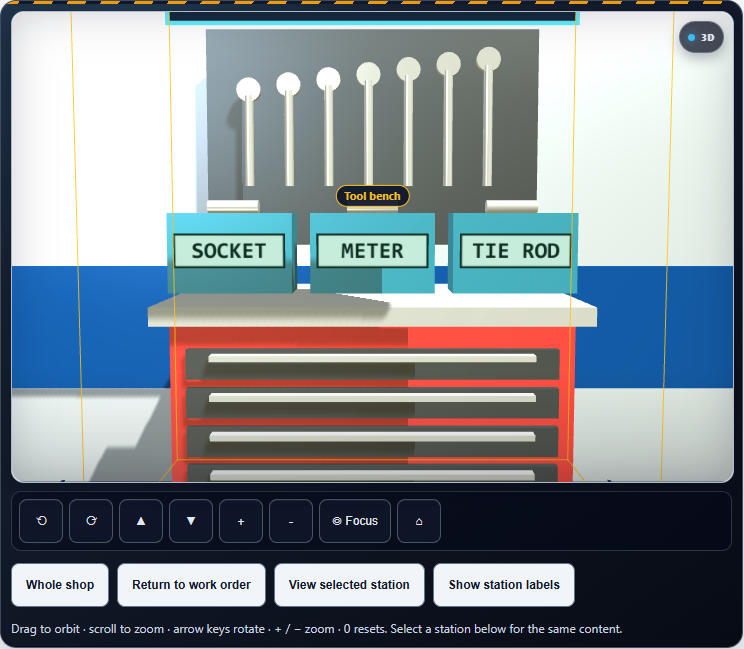
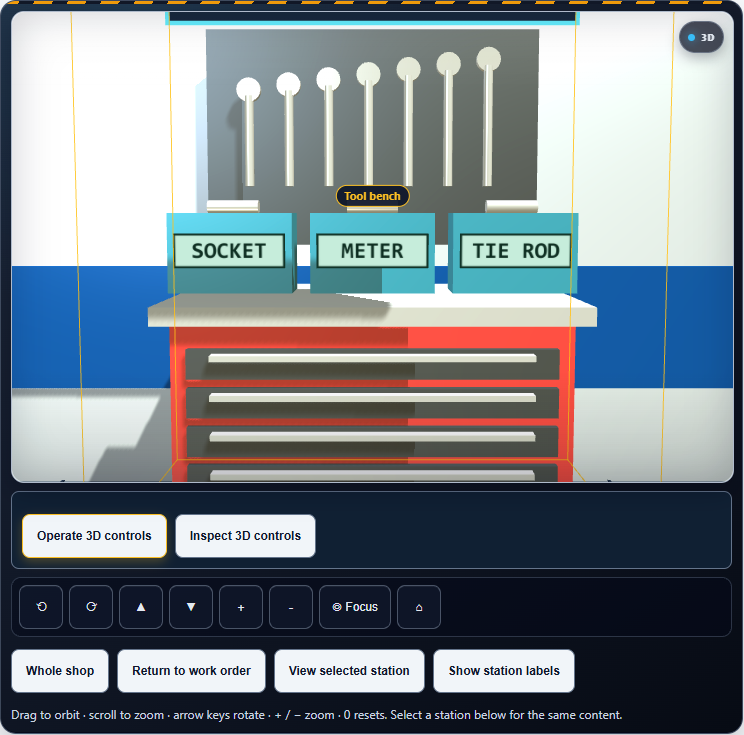
Add optional 3D workshop control inspection mode

diff --git a/desktop/web-app/public/stem_lab/stem_tool_autorepair.js b/desktop/web-app/public/stem_lab/stem_tool_autorepair.js
@@ -9760,6 +9760,42 @@ if (!(window.StemLab.isRegistered && window.StemLab.isRegistered('autoRepair')))
     }
     return actions;
   }
+  function arShopControlCatalog(raw) {
+    var state = arShopState(raw), task = arShopJob(state.job).tasks[state.step];
+    var list = SHOP_STATIONS.map(function (station) { return { id: station.id, label: 'Explore ' + station.label, detail: station.detail }; });
+    arShop3DTools(state).forEach(function (tool) {
+      list.push({ id: arShop3DToken(state, 'equip-' + tool[0]), label: 'Pick up ' + tool[1], detail: 'Select this item from the tool bench. Return to the task station to use it.' });
+    });
+    arShop3DActions(state).forEach(function (action) {
+      var detail = 'Use this control with the equipment and access required by the current task.';
+      if (action.id === 'task') detail = 'Perform the current work-order step: ' + task.label + '. Required setup, equipment, calculations and evidence still apply.';
+      else if (action.id === 'read') detail = 'Capture the instrument output using its current setup. Check whether the captured evidence is valid before completing the task.';
+      else if (action.id === 'hood') detail = 'Change hood access. Opening or closing the hood clears the current instrument capture.';
+      else if (action.id === 'lift-stop') detail = 'Latch the lift stop at its current position. A click on the red 3D stop always acts immediately, including in Inspect mode.';
+      else if (action.id === 'lift-clear') detail = 'Record or reopen the simulated bay-clear check. The lift remains stopped.';
+      else if (action.id === 'lift-reset') detail = 'Reset the latched stop after the bay-clear check. Resetting does not move the vehicle or resume a command.';
+      else if (action.explore) detail = action.explore.type === 'part' ? SHOP_BRAKE_PARTS.filter(function (part) { return part.id === action.explore.id; })[0].detail : 'Change the spacing of the brake parts for inspection. This view does not perform brake service.';
+      else if (action.action && action.action.type === 'configure') detail = 'Change an instrument setting. Capture fresh evidence after a setup change.';
+      else if (action.action && action.action.type === 'quantity') detail = 'Change the measured quantity in the jug. Transferring oil into the engine is a separate work-order step.';
+      else if (action.action && action.action.type === 'alignment-adjust') detail = 'Adjust the selected front toe angle by the displayed increment. Capture a new measurement after adjusting.';
+      else if (action.action && action.action.type === 'alignment-check') detail = 'Record or reopen this alignment preparation check.';
+      else if (action.id === 'seat') detail = 'Seat the wheel and start its fasteners before checking the cross-hub sequence.';
+      list.push({ id: arShop3DToken(state, action.id), label: action.label, detail: detail });
+    });
+    if (arShopInstrumentKind(state) === 'torque' && state.wheelSeated) for (var i = 0; i < 5; i++) list.push({ id: 'shop-lug-' + i, label: 'Check fastener ' + (i + 1), detail: 'Check this fastener against the training cross-hub sequence. A repeated or out-of-order check will not advance reassembly.' });
+    if (state.job === 'alignment') ['left', 'right'].forEach(function (side) { list.push({ id: 'shop-toe-' + side, label: 'Select ' + side + ' front tie rod', detail: 'Choose which front toe angle to adjust. Selecting a side does not change its angle.' }); });
+    return list;
+  }
+  function arShopControlPreview(raw, id) {
+    var state = arShopState(raw), item = arShopControlCatalog(state).filter(function (control) { return control.id === id; })[0];
+    return item ? { id: item.id, key: JSON.stringify(state) } : null;
+  }
+  function arShopCurrentPreview(raw, preview) {
+    var state = arShopState(raw);
+    if (!preview || preview.key !== JSON.stringify(state)) return null;
+    return arShopControlCatalog(state).filter(function (control) { return control.id === preview.id; })[0] || null;
+  }
+
   function arShop3DPick(raw, token) {
     var state = arShopState(raw), prefix = arShop3DToken(state, '');
     function blocked(text) { return Object.assign({}, state, { feedback: text }); }
@@ -20112,6 +20148,43 @@ if (!(window.StemLab.isRegistered && window.StemLab.isRegistered('autoRepair')))
           change({ station: id, feedback: '' });
           arAnnounce(SHOP_STATIONS.filter(function (p) { return p.id === id; })[0].label + ' selected.');
         }
+        function inspectControl(id) {
+          var preview = arShopControlPreview(shop, id), info = arShopCurrentPreview(shop, preview);
+          upd('shopInspectPick', preview);
+          arAnnounce(info ? 'Inspecting: ' + info.label + '. ' + info.detail : 'That control is no longer available. Choose a current control.');
+        }
+        function scenePick(id) {
+          if (d.shopInteraction === 'inspect' && id !== arShop3DToken(shop, 'lift-stop')) inspectControl(id);
+          else pick(id);
+        }
+        function clearControlPreview() {
+          upd('shopInspectPick', null);
+          requestAnimationFrame(function () { var chooser = document.getElementById('ar-shop-inspect-target'); if (chooser) chooser.focus({ preventScroll: true }); });
+        }
+        function controlInspector() {
+          var inspecting = d.shopInteraction === 'inspect', info = arShopCurrentPreview(shop, d.shopInspectPick);
+          return h('section', { 'data-ar-control-inspector': inspecting ? 'inspect' : 'operate', 'aria-label': '3D click mode',
+            style: { margin: '8px 0', padding: 10, border: '1px solid #64748b', borderRadius: 8, background: '#102033', color: '#e2e8f0' } },
+            h('div', { className: 'ar-shop-actions', role: 'group', 'aria-label': '3D click mode' }, ['operate', 'inspect'].map(function (mode) {
+              return control(mode === 'operate' ? 'Operate 3D controls' : 'Inspect 3D controls', function () { updMulti({ shopInteraction: mode, shopInspectPick: null }); },
+                { key: mode, 'data-ar-shop-interaction': mode, 'aria-pressed': (inspecting ? 'inspect' : 'operate') === mode });
+            })),
+            inspecting && h('div', null,
+              h('p', { style: { fontSize: 12, lineHeight: 1.5 } }, 'Click a 3D control to inspect it, then use the selected control below. The red 3D emergency stop stays immediate. Labeled controls in the work panels operate directly.'),
+              h('label', { htmlFor: 'ar-shop-inspect-target', style: { display: 'block', fontSize: 12, marginBottom: 6 } }, 'Or choose a control to inspect'),
+              h('select', { id: 'ar-shop-inspect-target', value: info ? info.id : '', onChange: function (event) { inspectControl(event.target.value); },
+                style: { minHeight: 44, width: '100%', boxSizing: 'border-box', background: '#fff', color: '#102033', padding: 8 } },
+                h('option', { value: '' }, 'Choose a current control'), arShopControlCatalog(shop).map(function (item) { return h('option', { key: item.id, value: item.id }, item.label); })),
+              h('div', { 'data-ar-control-preview': info ? info.id : '', role: 'status', 'aria-atomic': 'true', style: { fontSize: 13, lineHeight: 1.5, marginTop: 8 } },
+                info ? h('div', null, h('strong', null, info.label), h('p', { style: { margin: '6px 0' } }, info.detail)) :
+                  d.shopInspectPick ? 'The workshop changed. Inspect a current control again.' : 'Select a control to read what it does.'),
+              info && control('Use selected control', function () {
+                var current = arShopCurrentPreview(shop, d.shopInspectPick);
+                if (current) pick(current.id);
+                clearControlPreview();
+              }, { 'data-ar-control-use': true }),
+              info && control('Dismiss preview', clearControlPreview, { 'data-ar-control-dismiss': true })));
+        }
         function stationCamera(id) {
           if (!SHOP3D.focus) return;
           var viewport = document.querySelector('[data-ar-workshop] .ar-bay-viewport');
@@ -20135,7 +20208,7 @@ if (!(window.StemLab.isRegistered && window.StemLab.isRegistered('autoRepair')))
         var sceneState = [shop.job, shop.step, shop.tool, shop.brakeSpread, shop.brakePart, shop.lift, shop.liftStopped, shop.liftBayClear, shop.hood, shop.wheelRemoved, shop.serviced, shop.oilDrained, shop.refilled, shop.wheelSeated, instrumentKind === 'torque' ? shop.lugs.join(',') : '', instrumentKind === 'torque', equipmentState, shop.job === 'alignment' ? JSON.stringify([shop.alignment, !!shop.alignmentCutaway]) : ''].join('-');
         SHOP3D.sync({ selected: shop.station, dark: isDark, contrast: isContrast,
           sceneKey: 'whole-workshop-' + sceneState, sceneProps: shop, showAllLabels: !!d.shopLabels,
-          onPick: pick, onStatus: function (next) { upd('uh3dStatus', next); } });
+          onPick: scenePick, onStatus: function (next) { upd('uh3dStatus', next); } });
         function control(label, fn, attrs) {
           return h('button', Object.assign({ type: 'button', 'data-ar-focusable': true, onClick: fn,
             style: btnSecondary({ minHeight: 44, fontSize: 12 }) }, attrs || {}), label);
@@ -20417,6 +20490,7 @@ if (!(window.StemLab.isRegistered && window.StemLab.isRegistered('autoRepair')))
               h('div', { className: 'ar-bay-viewer-frame ar-shop-viewport' },
                 bayViewport({ viewer: SHOP3D, height: 470, selected: shop.station, selectedLabel: station.label,
                   label: 'Full vehicle in a mechanic workshop', failText: '3D view unavailable. Use the station buttons and work order below; all tasks and findings remain available.', loadText: 'Loading the full mechanic workshop…' }),
+                controlInspector(),
                 bayControls({ viewer: SHOP3D, selected: shop.station, selectedLabel: station.label }),
                 h('div', { className: 'ar-shop-actions' },
                   control('Whole shop', function () { SHOP3D.reset(); }),

diff --git a/stem_lab/stem_tool_autorepair.js b/stem_lab/stem_tool_autorepair.js
@@ -9760,6 +9760,42 @@ if (!(window.StemLab.isRegistered && window.StemLab.isRegistered('autoRepair')))
     }
     return actions;
   }
+  function arShopControlCatalog(raw) {
+    var state = arShopState(raw), task = arShopJob(state.job).tasks[state.step];
+    var list = SHOP_STATIONS.map(function (station) { return { id: station.id, label: 'Explore ' + station.label, detail: station.detail }; });
+    arShop3DTools(state).forEach(function (tool) {
+      list.push({ id: arShop3DToken(state, 'equip-' + tool[0]), label: 'Pick up ' + tool[1], detail: 'Select this item from the tool bench. Return to the task station to use it.' });
+    });
+    arShop3DActions(state).forEach(function (action) {
+      var detail = 'Use this control with the equipment and access required by the current task.';
+      if (action.id === 'task') detail = 'Perform the current work-order step: ' + task.label + '. Required setup, equipment, calculations and evidence still apply.';
+      else if (action.id === 'read') detail = 'Capture the instrument output using its current setup. Check whether the captured evidence is valid before completing the task.';
+      else if (action.id === 'hood') detail = 'Change hood access. Opening or closing the hood clears the current instrument capture.';
+      else if (action.id === 'lift-stop') detail = 'Latch the lift stop at its current position. A click on the red 3D stop always acts immediately, including in Inspect mode.';
+      else if (action.id === 'lift-clear') detail = 'Record or reopen the simulated bay-clear check. The lift remains stopped.';
+      else if (action.id === 'lift-reset') detail = 'Reset the latched stop after the bay-clear check. Resetting does not move the vehicle or resume a command.';
+      else if (action.explore) detail = action.explore.type === 'part' ? SHOP_BRAKE_PARTS.filter(function (part) { return part.id === action.explore.id; })[0].detail : 'Change the spacing of the brake parts for inspection. This view does not perform brake service.';
+      else if (action.action && action.action.type === 'configure') detail = 'Change an instrument setting. Capture fresh evidence after a setup change.';
+      else if (action.action && action.action.type === 'quantity') detail = 'Change the measured quantity in the jug. Transferring oil into the engine is a separate work-order step.';
+      else if (action.action && action.action.type === 'alignment-adjust') detail = 'Adjust the selected front toe angle by the displayed increment. Capture a new measurement after adjusting.';
+      else if (action.action && action.action.type === 'alignment-check') detail = 'Record or reopen this alignment preparation check.';
+      else if (action.id === 'seat') detail = 'Seat the wheel and start its fasteners before checking the cross-hub sequence.';
+      list.push({ id: arShop3DToken(state, action.id), label: action.label, detail: detail });
+    });
+    if (arShopInstrumentKind(state) === 'torque' && state.wheelSeated) for (var i = 0; i < 5; i++) list.push({ id: 'shop-lug-' + i, label: 'Check fastener ' + (i + 1), detail: 'Check this fastener against the training cross-hub sequence. A repeated or out-of-order check will not advance reassembly.' });
+    if (state.job === 'alignment') ['left', 'right'].forEach(function (side) { list.push({ id: 'shop-toe-' + side, label: 'Select ' + side + ' front tie rod', detail: 'Choose which front toe angle to adjust. Selecting a side does not change its angle.' }); });
+    return list;
+  }
+  function arShopControlPreview(raw, id) {
+    var state = arShopState(raw), item = arShopControlCatalog(state).filter(function (control) { return control.id === id; })[0];
+    return item ? { id: item.id, key: JSON.stringify(state) } : null;
+  }
+  function arShopCurrentPreview(raw, preview) {
+    var state = arShopState(raw);
+    if (!preview || preview.key !== JSON.stringify(state)) return null;
+    return arShopControlCatalog(state).filter(function (control) { return control.id === preview.id; })[0] || null;
+  }
+
   function arShop3DPick(raw, token) {
     var state = arShopState(raw), prefix = arShop3DToken(state, '');
     function blocked(text) { return Object.assign({}, state, { feedback: text }); }
@@ -20112,6 +20148,43 @@ if (!(window.StemLab.isRegistered && window.StemLab.isRegistered('autoRepair')))
           change({ station: id, feedback: '' });
           arAnnounce(SHOP_STATIONS.filter(function (p) { return p.id === id; })[0].label + ' selected.');
         }
+        function inspectControl(id) {
+          var preview = arShopControlPreview(shop, id), info = arShopCurrentPreview(shop, preview);
+          upd('shopInspectPick', preview);
+          arAnnounce(info ? 'Inspecting: ' + info.label + '. ' + info.detail : 'That control is no longer available. Choose a current control.');
+        }
+        function scenePick(id) {
+          if (d.shopInteraction === 'inspect' && id !== arShop3DToken(shop, 'lift-stop')) inspectControl(id);
+          else pick(id);
+        }
+        function clearControlPreview() {
+          upd('shopInspectPick', null);
+          requestAnimationFrame(function () { var chooser = document.getElementById('ar-shop-inspect-target'); if (chooser) chooser.focus({ preventScroll: true }); });
+        }
+        function controlInspector() {
+          var inspecting = d.shopInteraction === 'inspect', info = arShopCurrentPreview(shop, d.shopInspectPick);
+          return h('section', { 'data-ar-control-inspector': inspecting ? 'inspect' : 'operate', 'aria-label': '3D click mode',
+            style: { margin: '8px 0', padding: 10, border: '1px solid #64748b', borderRadius: 8, background: '#102033', color: '#e2e8f0' } },
+            h('div', { className: 'ar-shop-actions', role: 'group', 'aria-label': '3D click mode' }, ['operate', 'inspect'].map(function (mode) {
+              return control(mode === 'operate' ? 'Operate 3D controls' : 'Inspect 3D controls', function () { updMulti({ shopInteraction: mode, shopInspectPick: null }); },
+                { key: mode, 'data-ar-shop-interaction': mode, 'aria-pressed': (inspecting ? 'inspect' : 'operate') === mode });
+            })),
+            inspecting && h('div', null,
+              h('p', { style: { fontSize: 12, lineHeight: 1.5 } }, 'Click a 3D control to inspect it, then use the selected control below. The red 3D emergency stop stays immediate. Labeled controls in the work panels operate directly.'),
+              h('label', { htmlFor: 'ar-shop-inspect-target', style: { display: 'block', fontSize: 12, marginBottom: 6 } }, 'Or choose a control to inspect'),
+              h('select', { id: 'ar-shop-inspect-target', value: info ? info.id : '', onChange: function (event) { inspectControl(event.target.value); },
+                style: { minHeight: 44, width: '100%', boxSizing: 'border-box', background: '#fff', color: '#102033', padding: 8 } },
+                h('option', { value: '' }, 'Choose a current control'), arShopControlCatalog(shop).map(function (item) { return h('option', { key: item.id, value: item.id }, item.label); })),
+              h('div', { 'data-ar-control-preview': info ? info.id : '', role: 'status', 'aria-atomic': 'true', style: { fontSize: 13, lineHeight: 1.5, marginTop: 8 } },
+                info ? h('div', null, h('strong', null, info.label), h('p', { style: { margin: '6px 0' } }, info.detail)) :
+                  d.shopInspectPick ? 'The workshop changed. Inspect a current control again.' : 'Select a control to read what it does.'),
+              info && control('Use selected control', function () {
+                var current = arShopCurrentPreview(shop, d.shopInspectPick);
+                if (current) pick(current.id);
+                clearControlPreview();
+              }, { 'data-ar-control-use': true }),
+              info && control('Dismiss preview', clearControlPreview, { 'data-ar-control-dismiss': true })));
+        }
         function stationCamera(id) {
           if (!SHOP3D.focus) return;
           var viewport = document.querySelector('[data-ar-workshop] .ar-bay-viewport');
@@ -20135,7 +20208,7 @@ if (!(window.StemLab.isRegistered && window.StemLab.isRegistered('autoRepair')))
         var sceneState = [shop.job, shop.step, shop.tool, shop.brakeSpread, shop.brakePart, shop.lift, shop.liftStopped, shop.liftBayClear, shop.hood, shop.wheelRemoved, shop.serviced, shop.oilDrained, shop.refilled, shop.wheelSeated, instrumentKind === 'torque' ? shop.lugs.join(',') : '', instrumentKind === 'torque', equipmentState, shop.job === 'alignment' ? JSON.stringify([shop.alignment, !!shop.alignmentCutaway]) : ''].join('-');
         SHOP3D.sync({ selected: shop.station, dark: isDark, contrast: isContrast,
           sceneKey: 'whole-workshop-' + sceneState, sceneProps: shop, showAllLabels: !!d.shopLabels,
-          onPick: pick, onStatus: function (next) { upd('uh3dStatus', next); } });
+          onPick: scenePick, onStatus: function (next) { upd('uh3dStatus', next); } });
         function control(label, fn, attrs) {
           return h('button', Object.assign({ type: 'button', 'data-ar-focusable': true, onClick: fn,
             style: btnSecondary({ minHeight: 44, fontSize: 12 }) }, attrs || {}), label);
@@ -20417,6 +20490,7 @@ if (!(window.StemLab.isRegistered && window.StemLab.isRegistered('autoRepair')))
               h('div', { className: 'ar-bay-viewer-frame ar-shop-viewport' },
                 bayViewport({ viewer: SHOP3D, height: 470, selected: shop.station, selectedLabel: station.label,
                   label: 'Full vehicle in a mechanic workshop', failText: '3D view unavailable. Use the station buttons and work order below; all tasks and findings remain available.', loadText: 'Loading the full mechanic workshop…' }),
+                controlInspector(),
                 bayControls({ viewer: SHOP3D, selected: shop.station, selectedLabel: station.label }),
                 h('div', { className: 'ar-shop-actions' },
                   control('Whole shop', function () { SHOP3D.reset(); }),

diff --git a/tests/autorepair_full_workshop.test.js b/tests/autorepair_full_workshop.test.js
@@ -4,7 +4,7 @@ import { loadTool, renderTool, resetStemLab } from './helpers/stem_widgets_smoke
 const file = 'stem_lab/stem_tool_autorepair.js';
 const source = readFileSync(file, 'utf8');
 const lugModel = source.slice(source.indexOf('  var TIRE_LUG_PATTERN ='), source.indexOf('  function buildWheelCornerScene('));
-const model = new Function(lugModel + source.slice(source.indexOf('  var SHOP_STATIONS = ['), source.indexOf('  function buildWorkshopScene(')) + '\nreturn { jobs: SHOP_JOBS, initial: arShopInitial, advance: arShopAdvance, normalize: arShopState, operate: arShopOperate, kind: arShopInstrumentKind, ready: arShopEvidenceReady, alignment: arShopAlignment, direct: arShop3DPick, actions: arShop3DActions, token: arShop3DToken, tools: arShop3DTools, explore: arShopBrakeExplore, brakeAccess: arShopBrakeAccess, brakePose: arShopBrakePose, readiness: arShopReadiness, coach: arShopInstrumentGuide };')();
+const model = new Function(lugModel + source.slice(source.indexOf('  var SHOP_STATIONS = ['), source.indexOf('  function buildWorkshopScene(')) + '\nreturn { jobs: SHOP_JOBS, initial: arShopInitial, advance: arShopAdvance, normalize: arShopState, operate: arShopOperate, kind: arShopInstrumentKind, ready: arShopEvidenceReady, alignment: arShopAlignment, direct: arShop3DPick, actions: arShop3DActions, token: arShop3DToken, tools: arShop3DTools, explore: arShopBrakeExplore, brakeAccess: arShopBrakeAccess, brakePose: arShopBrakePose, readiness: arShopReadiness, coach: arShopInstrumentGuide, controls: arShopControlCatalog, preview: arShopControlPreview, currentPreview: arShopCurrentPreview };')();
 function step(state, extra = {}) {
   const job = model.jobs.find(j => j.id === state.job), task = job.tasks[state.step];
   let ready = model.normalize({ ...state, station: task.station, tool: task.tool, answer: String(job.answer), ...extra });
@@ -665,5 +665,60 @@ describe('Direct battery probe contacts', () => {
     const current = use(state, 'meter-joint');
     expect(model.direct(current, model.token({ ...state, step: 1 }, 'meter-posts')).instrument.contact).toBe('joint');
     expect(use(state, 'meter-unknown').instrument.contact).toBe('posts');
+  });
+});
+
+
+describe('Workshop control inspection', () => {
+  it.each(model.jobs)('describes available $id controls without operating or mutating them', job => {
+    const state = model.initial(job.id), before = JSON.stringify(state), controls = model.controls(state);
+    expect(new Set(controls.map(control => control.id)).size).toBe(controls.length);
+    for (const control of controls) {
+      const preview = model.preview(state, control.id);
+      expect(model.currentPreview(state, preview)).toEqual(control);
+      expect(control.label).toBeTruthy(); expect(control.detail).toBeTruthy();
+    }
+    expect(JSON.stringify(state)).toBe(before); expect(state.history).toHaveLength(0);
+  });
+  it('expires previews when equipment, access, calculations, job or instrument setup changes', () => {
+    const state = model.normalize({ job: 'electrical', step: 2, hood: true, tool: 'meter', station: 'engine' });
+    const preview = model.preview(state, model.token(state, 'read'));
+    for (const patch of [{ tool: 'lamp' }, { hood: false }, { answer: '1.4' }, { step: 3 }, { job: 'oil' }, { station: 'tools' }, { instrument: { ...state.instrument, load: 'starter' } }]) {
+      expect(model.currentPreview({ ...state, ...patch }, preview)).toBeNull();
+    }
+    expect(model.currentPreview(model.normalize(JSON.parse(JSON.stringify(state))), preview).label).toBe('Capture instrument reading');
+  });
+  it('rejects unknown and old tokens and derives labels from the current catalogue', () => {
+    const state = model.initial('brakes');
+    expect(model.preview(state, 'unknown')).toBeNull();
+    expect(model.preview(state, model.token({ ...state, step: 99 }, 'task'))).toBeNull();
+    const preview = model.preview(state, model.token(state, 'hood'));
+    expect(model.currentPreview(state, { ...preview, label: 'Injected label', detail: 'Injected detail' }).label).toBe('Open hood');
+    expect(model.currentPreview(state, { ...preview, key: '' })).toBeNull();
+  });
+  it('describes readings without generating evidence or revealing an uncaptured value', () => {
+    const state = model.normalize({ job: 'electrical', step: 2, hood: true, tool: 'meter', station: 'engine', instrument: { contact: 'joint', load: 'starter' } });
+    const item = model.currentPreview(state, model.preview(state, model.token(state, 'read')));
+    expect(item.detail).not.toContain('1.6'); expect(state.reading).toBeNull();
+    expect(model.direct(state, item.id).reading).toMatchObject({ value: 1.6, valid: true });
+  });
+  it('includes accessible fastener and tie-rod targets only in their relevant context', () => {
+    const refit = model.normalize({ job: 'brakes', step: 9, tool: 'torque', lift: 'locked', serviced: true, wheelRemoved: true });
+    expect(model.controls(refit).filter(control => control.id.startsWith('shop-lug-'))).toHaveLength(0);
+    expect(model.controls({ ...refit, wheelSeated: true }).filter(control => control.id.startsWith('shop-lug-'))).toHaveLength(5);
+    expect(model.controls(model.initial('alignment')).filter(control => control.id.startsWith('shop-toe-'))).toHaveLength(2);
+  });
+});
+
+describe('Control inspector fallback rendering', () => {
+  beforeEach(() => { resetStemLab(); loadTool(file, 'autoRepair'); });
+  it('offers keyboard inspection and explicit use when WebGL is unavailable', () => {
+    const shop = model.initial('brakes'), preview = model.preview(shop, model.token(shop, 'hood'));
+    const html = renderTool('autoRepair', { autoRepair: { view: 'workshop', shop, shopInteraction: 'inspect', shopInspectPick: preview, uh3dStatus: 'failed' } });
+    const host = document.createElement('div'); host.innerHTML = html;
+    expect(host.querySelector('label[for="ar-shop-inspect-target"]')).not.toBeNull();
+    expect(host.querySelector('[data-ar-control-preview]').textContent).toContain('Open hood');
+    expect(host.querySelector('[data-ar-control-use]').textContent).toBe('Use selected control');
+    expect(host.querySelector('[data-ar-control-inspector]').textContent).toContain('emergency stop stays immediate');
   });
 });

diff --git a/tests/e2e/autorepair-full-workshop.spec.ts b/tests/e2e/autorepair-full-workshop.spec.ts
@@ -836,3 +836,60 @@ test('battery close-up places probes on physical contacts and preserves unchange
   await expect(page.locator('[data-ar-shop-task="measure"]')).toHaveCount(1);
   expect(await page.evaluate(() => (window as any).__events.errors)).toEqual([]);
 });
+
+
+test('3D inspection previews controls, expires changed state and explicitly applies a current selection', async ({ page }) => {
+  await harness.mount(page, { autoRepair: { view: 'workshop', shop: { job: 'electrical', step: 2, station: 'engine', tool: 'meter', hood: true } } });
+  await page.locator('[data-ar-shop-interaction="inspect"]').click();
+  await page.locator('[data-ar-scene-focus]').click();
+  const before = await page.evaluate(() => JSON.stringify((window as any).__ctx.toolData.autoRepair.shop));
+  await clickShop(page, 'workshop-control-meter-load');
+  await expect(page.locator('[data-ar-control-preview]')).toContainText('Apply simulated starter load');
+  expect(await page.evaluate(() => JSON.stringify((window as any).__ctx.toolData.autoRepair.shop))).toBe(before);
+  await expect(page.locator('#ar-shop-instrument-load')).toHaveValue('off');
+  await page.locator('[data-ar-control-inspector]').screenshot({ path: 'reports/automobile-workshop/control-inspector-desktop.png' });
+  await page.locator('[data-ar-control-use]').click();
+  await expect(page.locator('#ar-shop-instrument-load')).toHaveValue('starter');
+  await expect(page.locator('#ar-shop-inspect-target')).toBeFocused();
+  await expect(page.locator('[data-ar-control-use]')).toHaveCount(0);
+  await page.locator('#ar-shop-inspect-target').selectOption('shop-use-electrical-2-read');
+  await page.locator('[data-ar-scene-action="meter-contact"]').click();
+  await expect(page.locator('[data-ar-control-preview]')).toContainText('workshop changed');
+  await expect(page.locator('[data-ar-control-use]')).toHaveCount(0);
+  await page.locator('#ar-shop-inspect-target').selectOption('shop-use-electrical-2-read');
+  await page.locator('[data-ar-control-use]').focus(); await page.keyboard.press('Enter');
+  await expect(page.locator('[data-ar-shop-reading]')).toHaveText('1.6 V');
+  await expect(page.locator('[data-ar-shop-task="measure"]')).toHaveCount(1);
+  await page.setViewportSize({ width: 390, height: 844 });
+  await page.locator('#wrap').evaluate((el: HTMLElement) => { el.style.width = '100%'; el.style.maxWidth = '100%'; });
+  await page.locator('#ar-shop-inspect-target').selectOption('shop-use-electrical-2-meter-posts');
+  await page.locator('[data-ar-control-inspector]').screenshot({ path: 'reports/automobile-workshop/control-inspector-mobile.png' });
+  await page.locator('[data-ar-control-dismiss]').focus(); await page.keyboard.press('Enter');
+  await expect(page.locator('#ar-shop-inspect-target')).toBeFocused();
+  await expect(page.locator('[data-ar-shop-reading]')).toHaveText('1.6 V');
+  expect(await page.evaluate(() => document.documentElement.scrollWidth <= innerWidth + 1)).toBe(true);
+  expect(await page.evaluate(() => (window as any).__events.errors)).toEqual([]);
+});
+
+test('inspection keeps the physical stop immediate and retains lift gates and drag behavior', async ({ page }) => {
+  await harness.mount(page, { autoRepair: { view: 'workshop', shop: { job: 'brakes', step: 2, station: 'lift', tool: 'lamp', lift: 'prepared' } } });
+  await page.locator('[data-ar-shop-interaction="inspect"]').click();
+  await page.locator('[data-ar-scene-focus]').click(); await clickShop(page, 'workshop-control-task');
+  await expect(page.locator('[data-ar-control-preview]')).toContainText('Perform the current work-order step');
+  await page.locator('[data-ar-control-use]').click();
+  await expect(page.locator('[data-ar-scene-feedback]')).toContainText('Choose Lift controls');
+  await expect(page.locator('[data-ar-shop-task="low-lift"]')).toHaveCount(1);
+  await page.locator('[data-ar-lift-focus]').click();
+  await clickShop(page, 'lift-emergency-stop');
+  await expect(page.locator('[data-ar-lift-stop-status]')).toHaveAttribute('data-ar-lift-stop-status', 'stopped');
+  await expect(page.locator('[data-ar-control-use]')).toHaveCount(0);
+  await page.locator('[data-ar-lift-focus]').click();
+  const point = await shopPoint(page, 'workshop-control-task');
+  await page.mouse.move(point.x, point.y); await page.mouse.down(); await page.mouse.move(point.x + 65, point.y + 10, { steps: 6 }); await page.mouse.up();
+  await expect(page.locator('[data-ar-control-use]')).toHaveCount(0);
+  await page.locator('[data-ar-shop-interaction="operate"]').click();
+  await expect(page.locator('#ar-shop-inspect-target')).toHaveCount(0);
+  await page.locator('[data-ar-lift-focus]').click(); await clickShop(page, 'workshop-control-lift-clear');
+  await expect(page.locator('[data-ar-scene-feedback]')).toContainText('bay-clear check recorded');
+  expect(await page.evaluate(() => (window as any).__events.errors)).toEqual([]);
+});

diff --git a/docs/automobile-workshop-review-2026-09-08.md b/docs/automobile-workshop-review-2026-09-08.md
@@ -203,6 +203,19 @@ Full-regression limitation: two broad automobile runs were interrupted after exi
 - [Negative post selected](../reports/automobile-workshop/battery-post-contact.png)
 - [Phone battery close-up](../reports/automobile-workshop/battery-contacts-mobile.png)
 
+## Optional 3D control inspection mode
+
+The viewport now offers Operate and Inspect modes. Operate remains the default. In Inspect mode, a 3D click identifies the selected station, tool or control and explains its action. A keyboard-accessible chooser exposes the same catalogue. Use selected control invokes the existing dispatcher, preserving equipment, evidence and vehicle-access requirements. Dismissing a preview leaves the work order untouched, and keyboard focus returns to the chooser after use or dismissal.
+
+Preview selection is separate from the saved work order. Descriptions are derived from the current authored catalogue; no simulated instrument operation is run to generate a preview. Each selection is bound to the current normalized workshop state. A changed job, task, setting, tool, access condition, calculation or other work-order state expires it, removing the Use action until a current control is inspected again.
+
+The physical red lift stop remains immediate in both click modes. That exception is stated beside the mode controls. Labeled controls in the work panels continue to operate directly. Dragging the 3D view still orbits and does not select a preview. The shared viewer was not modified.
+
+Validation: **104 workshop model/render tests passed** (39.13 seconds), including preview purity, stale-state rejection, current-catalogue descriptions, available fastener targets and the no-WebGL chooser. **Five targeted WebGL workflows passed**: existing direct electrical, lift and jug/alignment controls plus both new inspection flows. These verify actual canvas previewing without state changes, explicit use, expiry after setup changes, keyboard focus, phone overflow, immediate physical stopping and drag-versus-click behavior. The first browser batch passed four workflows; the electrical case timed out waiting for screenshot stability, then passed unchanged on its focused rerun (59 seconds). Desktop and phone preview screenshots were visually reviewed. Syntax, source/public parity and scoped diff checks passed. Validation was limited to the affected workshop paths; the previously documented broad-suite timing limitation is not represented as resolved. Temporary browser recording overrides were removed. No deployment or installer build was performed.
+
+- [Desktop control preview](../reports/automobile-workshop/control-inspector-desktop.png)
+- [Phone control preview](../reports/automobile-workshop/control-inspector-mobile.png)
+
 ## Scope and remaining opportunities
 
 This is an authored educational simulation. Service actions represent supervised procedures; it does not model wrench forces, hydraulic pressure, component collision, thread engagement, fluid dynamics or every repair operation. The work orders do not supply universal torque/fluid specifications or certify a real vehicle. Exhaust and tool stations currently support exploration rather than separate exhaust-repair or inventory-management jobs.
